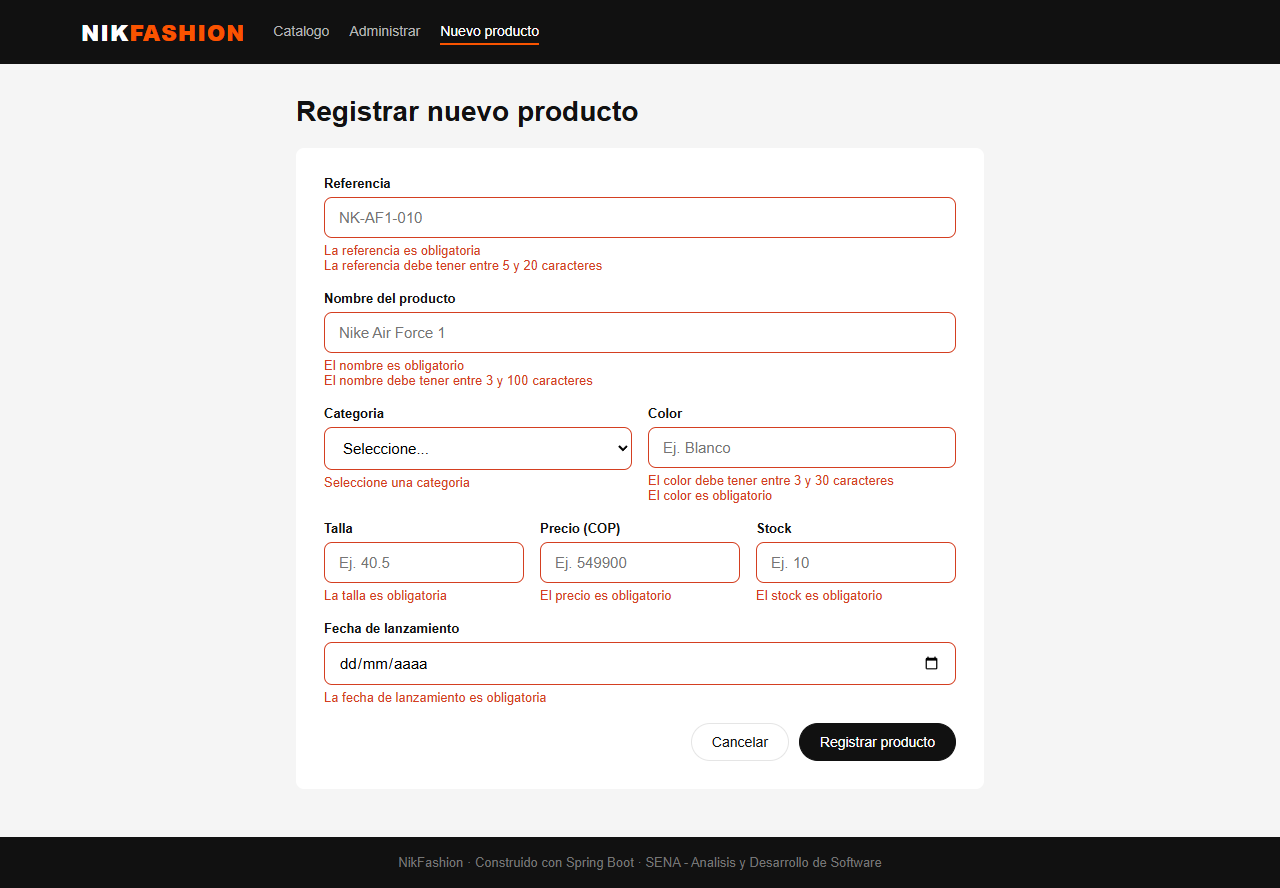
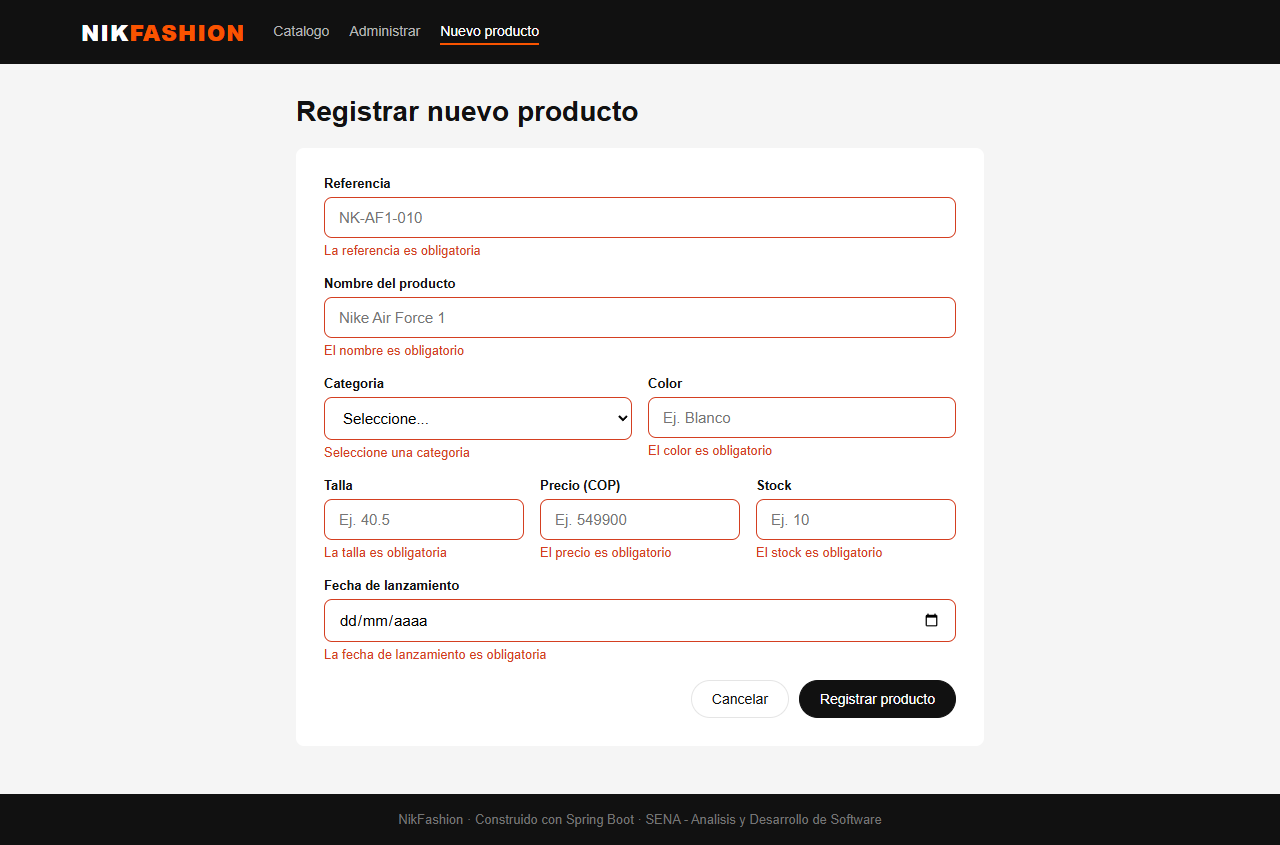
Un solo mensaje de error por campo vacio y pantallazos actualizados

diff --git a/src/main/java/co/edu/sena/nikfashion/modelo/Producto.java b/src/main/java/co/edu/sena/nikfashion/modelo/Producto.java
@@ -15,7 +15,6 @@ import jakarta.validation.constraints.Digits;
 import jakarta.validation.constraints.Max;
 import jakarta.validation.constraints.PastOrPresent;
 import jakarta.validation.constraints.Pattern;
-import jakarta.validation.constraints.Size;
 import java.math.BigDecimal;
 import java.time.LocalDate;
 import org.springframework.format.annotation.DateTimeFormat;
@@ -41,14 +40,14 @@ public class Producto {
 
     /** Codigo unico del producto, ej. NK-AF1-001. */
     @NotBlank(message = "La referencia es obligatoria")
-    @Size(min = 5, max = 20, message = "La referencia debe tener entre 5 y 20 caracteres")
+    @Pattern(regexp = "^(|.{5,20})$", message = "La referencia debe tener entre 5 y 20 caracteres")
     @Pattern(regexp = "^[A-Za-z0-9-]*$",
             message = "La referencia solo admite letras, numeros y guiones (sin espacios ni caracteres especiales)")
     @Column(nullable = false, unique = true, length = 20)
     private String referencia;
 
     @NotBlank(message = "El nombre es obligatorio")
-    @Size(min = 3, max = 100, message = "El nombre debe tener entre 3 y 100 caracteres")
+    @Pattern(regexp = "^(|.{3,100})$", message = "El nombre debe tener entre 3 y 100 caracteres")
     @Pattern(regexp = "^[\\p{L}0-9 .'-]*$",
             message = "El nombre solo admite letras, numeros, espacios y los signos . ' -")
     @Column(nullable = false, length = 100)
@@ -65,7 +64,7 @@ public class Producto {
     private BigDecimal talla;
 
     @NotBlank(message = "El color es obligatorio")
-    @Size(min = 3, max = 30, message = "El color debe tener entre 3 y 30 caracteres")
+    @Pattern(regexp = "^(|.{3,30})$", message = "El color debe tener entre 3 y 30 caracteres")
     @Pattern(regexp = "^[\\p{L} ]*$", message = "El color solo admite letras y espacios")
     @Column(nullable = false, length = 30)
     private String color;
